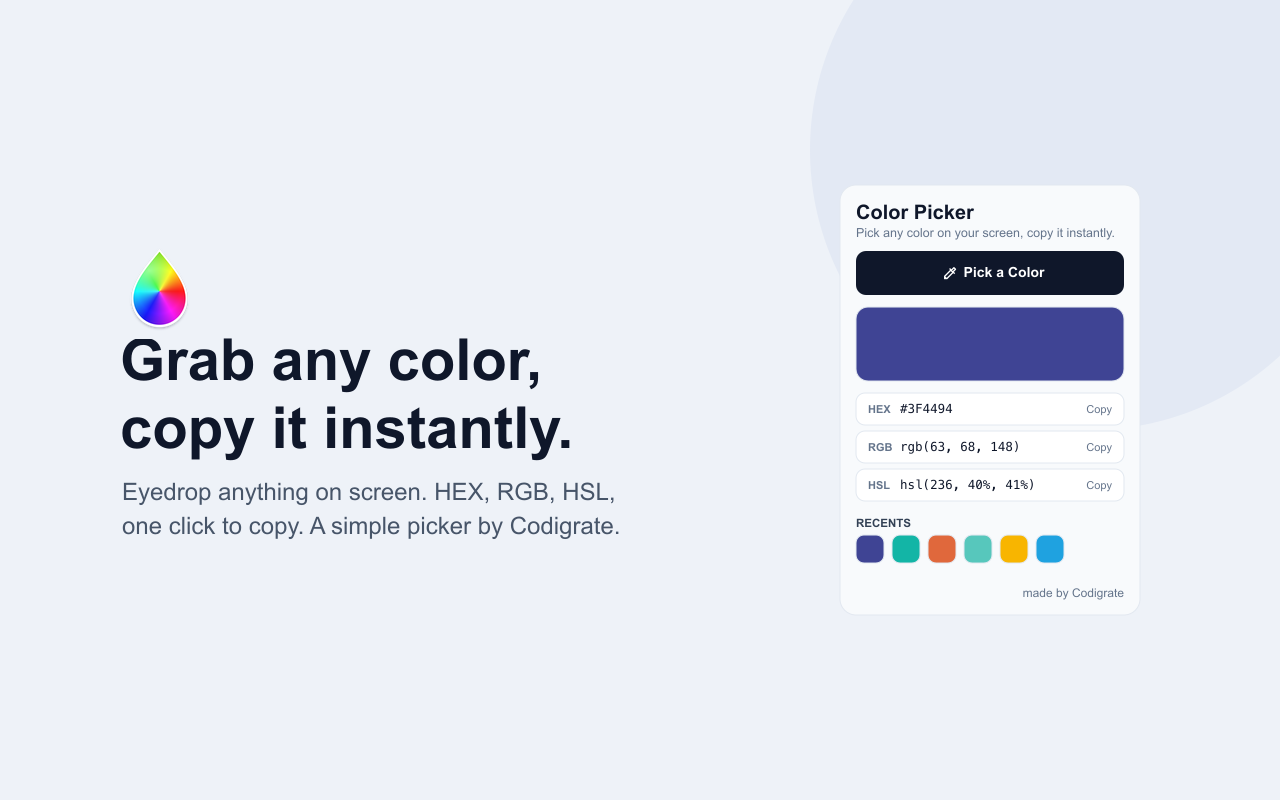
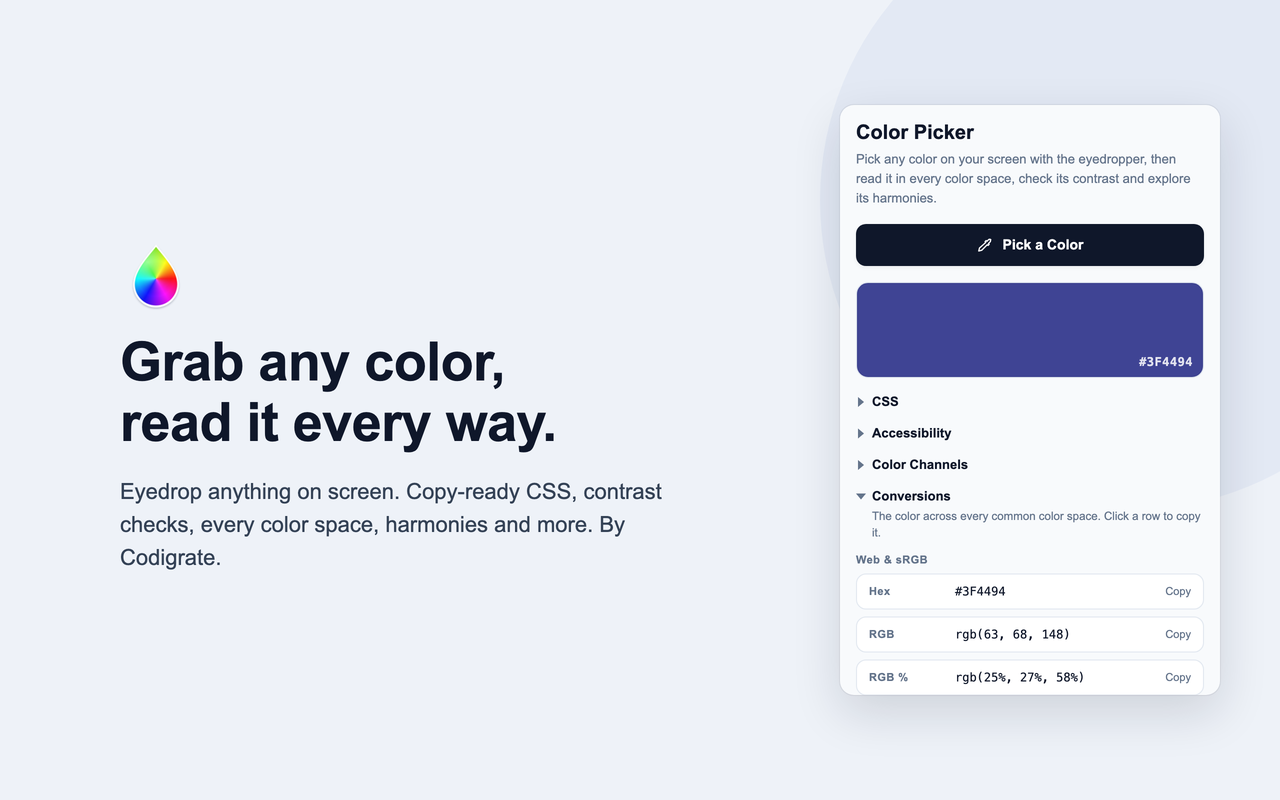
Store screenshots rendered from the real v2026.1.3 popup
store/screenshot-src.html pulls popup.html + css + js in, so the shot never
drifts from the product; ?view=conversions / explore / popup for the two
store screenshots and the site hero.

diff --git a/store/screenshot-src.html b/store/screenshot-src.html
@@ -1,0 +1,68 @@
+<!doctype html>
+<html lang="en">
+<head>
+<meta charset="UTF-8">
+<title>Color Picker store screenshot</title>
+<link rel="stylesheet" href="../popup.css">
+<style>
+  /* 1280x800 Web Store screenshot: flat #EEF2F8 page, one soft circle behind
+     the visual, left copy + drop icon, right the REAL popup (popup.html + css + js). */
+  html, body { margin: 0; width: 1280px; height: 800px; overflow: hidden; }
+  body { width: 1280px; background: #EEF2F8; font-family: Arial, sans-serif; position: relative; }
+  .circle { position: absolute; left: 820px; top: -110px; width: 620px; height: 620px; border-radius: 50%; background: #E3E9F4; }
+  .copy { position: absolute; left: 120px; top: 240px; width: 560px; }
+  .copy img { width: 72px; height: 72px; display: block; margin-bottom: 20px; }
+  .copy h2 { margin: 0; font-size: 54px; line-height: 1.12; font-weight: 800; color: #0F172A; letter-spacing: -0.01em; }
+  .copy p { margin: 22px 0 0; font-size: 22px; line-height: 1.5; color: #334155; }
+  .shot { position: absolute; left: 840px; top: 105px; width: 380px; height: 590px; border-radius: 14px; overflow: hidden;
+          background: #F8FAFC; box-shadow: 0 18px 48px rgba(15, 23, 42, 0.14), 0 0 0 1px rgba(15, 23, 42, 0.06); }
+  .shot .container { max-height: 590px; overflow: hidden; }
+  .shot .h-row .chip { cursor: default; }
+  body.popup-only { background: transparent; width: 460px; height: 660px; }
+  body.popup-only .circle, body.popup-only .copy { display: none; }
+  body.popup-only .shot { left: 40px; top: 30px; }
+</style>
+</head>
+<body>
+<div class="circle"></div>
+<div class="copy">
+  <img src="../images/icon128.png" alt="">
+  <h2>Grab any color,<br>read it every way.</h2>
+  <p>Eyedrop anything on screen. Copy-ready CSS, contrast checks, every color space, harmonies and more. By Codigrate.</p>
+</div>
+<div class="shot" id="shot"></div>
+<script>
+  // Pull the real popup markup in, so the screenshot never drifts from the product.
+  fetch('../popup.html').then(r => r.text()).then(html => {
+    const doc = new DOMParser().parseFromString(html, 'text/html');
+    document.getElementById('shot').appendChild(doc.querySelector('.container'));
+    const s1 = document.createElement('script'); s1.src = '../ral-classic.js';
+    s1.onload = () => {
+      const s2 = document.createElement('script'); s2.src = '../popup.js';
+      s2.onload = () => {
+        show('#3F4494');
+        renderHistory(['#3F4494', '#12B39E', '#E8703F', '#5AC8B8', '#F5B301', '#1FA1E6']);
+        // ?view=conversions: fold the first sections so the section list AND the
+        // Conversions rows are in frame. ?view=explore: scroll to Harmony and below.
+        const view = new URLSearchParams(location.search).get('view') || 'top';
+        if (view === 'popup') {
+          document.body.classList.add('popup-only');
+          ['css', 'accessibility', 'channels'].forEach(k => document.querySelector('.sec[data-sec=' + k + ']').classList.add('collapsed'));
+        }
+        if (view === 'conversions') {
+          ['css', 'accessibility', 'channels'].forEach(k => document.querySelector('.sec[data-sec=' + k + ']').classList.add('collapsed'));
+        }
+        if (view === 'explore') {
+          ['css', 'accessibility', 'channels', 'conversions'].forEach(k => document.querySelector('.sec[data-sec=' + k + ']').classList.add('collapsed'));
+          const c = document.querySelector('.shot .container');
+          c.scrollTop = document.querySelector('.sec[data-sec=harmony]').offsetTop - 16;
+        }
+        document.body.dataset.ready = '1';
+      };
+      document.body.appendChild(s2);
+    };
+    document.body.appendChild(s1);
+  });
+</script>
+</body>
+</html>
